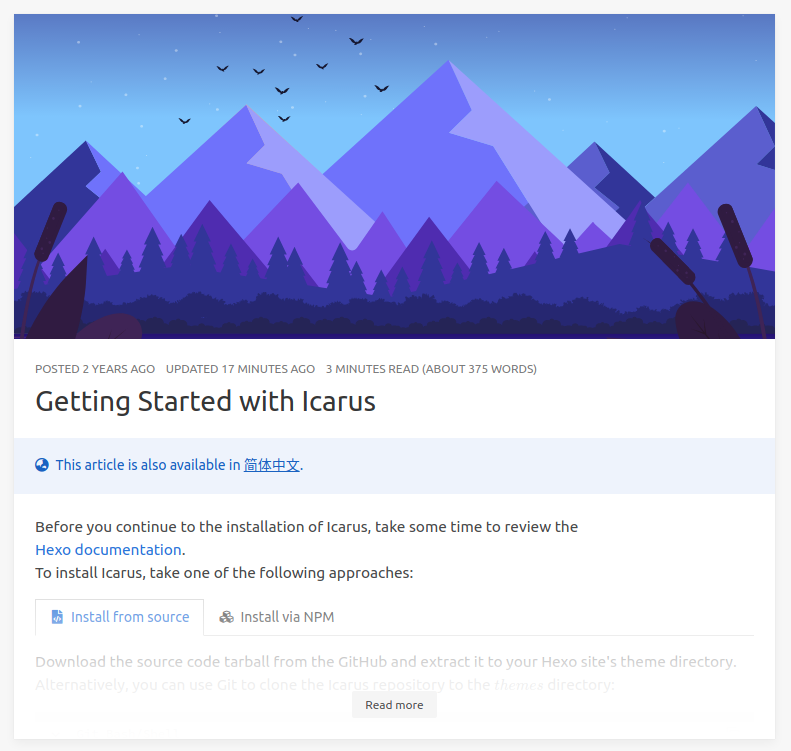
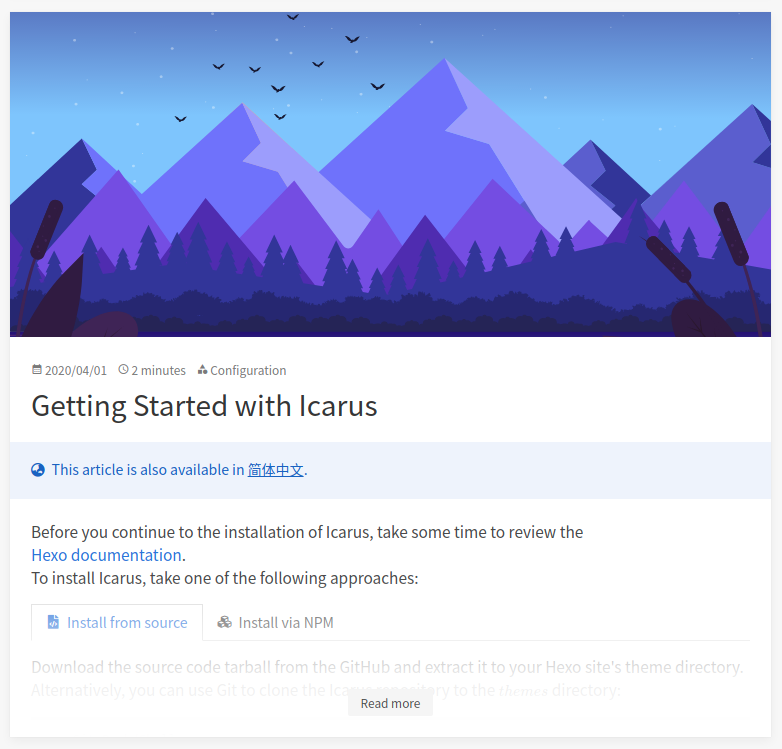
📝 update README.md

diff --git a/README.md b/README.md
@@ -7,6 +7,7 @@ A customized version of [icarus](https://github.com/ppoffice/hexo-theme-icarus) 
 - [Better code block](#better-code-block)
 - [Admonition](#admonition)
 - [Blurring readmore](#blurring-readmore)
+- [Compact article meta](#compact-article-meta)
 - [Lazy loading images](#lazy-loading-images)
 
 ## Better code block
@@ -51,6 +52,12 @@ main()
 If you do not set an excerpt, a blurring effect of readmore will be applied.
 
 ![](/screenshots/readmore.png)
+
+## Compact article meta
+
+More compact article meta, no more long long text.
+
+![](/screenshots/meta.png)
 
 ## Lazy loading images
 
